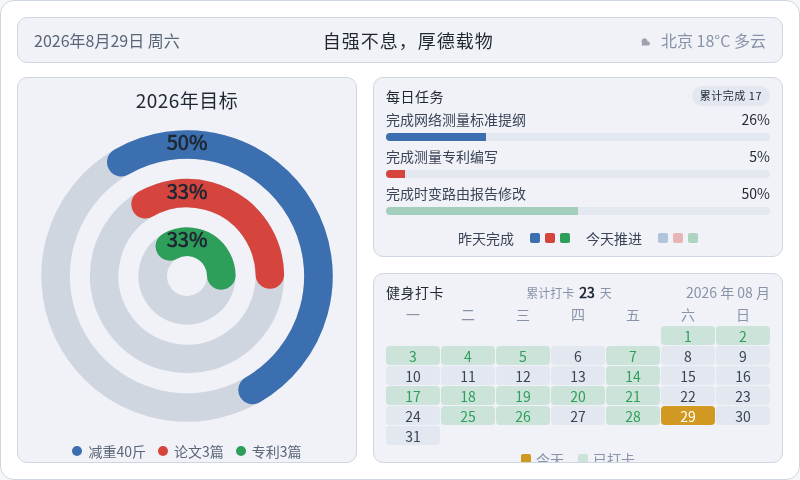
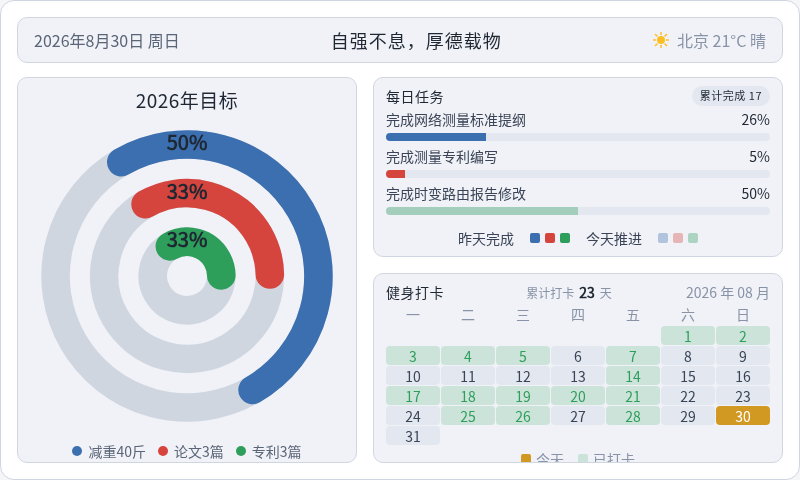
chore: 每日看板刷新 2026-08-30

diff --git a/output/dashboard.html b/output/dashboard.html
@@ -185,11 +185,11 @@
 <body>
   <div class="dash">
     <div class="topbar">
-      <div class="tb-date" id="tbDate">2026年8月29日 周六</div>
+      <div class="tb-date" id="tbDate">2026年8月30日 周日</div>
       <div class="tb-slogan">自强不息，厚德载物</div>
       <div class="tb-weather">
-        <svg width="16" height="16" viewBox="0 0 16 16" aria-hidden="true"><path d="M5 11 a3 3 0 1 1 5.5 -1.5 h0.5 a2 2 0 1 1 0 4 H5 a2.5 2.5 0 0 1 0 -2.5z" fill="#9ca3af"/></svg>
-        <span>北京 18°C 多云</span>
+        <svg width="16" height="16" viewBox="0 0 16 16" aria-hidden="true"><circle cx="8" cy="8" r="4" fill="#fbbf24"/><g stroke="#fbbf24" stroke-width="1.5" stroke-linecap="round"><line x1="8" y1="0.5" x2="8" y2="2.5"/><line x1="8" y1="13.5" x2="8" y2="15.5"/><line x1="0.5" y1="8" x2="2.5" y2="8"/><line x1="13.5" y1="8" x2="15.5" y2="8"/><line x1="2.5" y1="2.5" x2="3.9" y2="3.9"/><line x1="12.1" y1="12.1" x2="13.5" y2="13.5"/><line x1="13.5" y1="2.5" x2="12.1" y2="3.9"/><line x1="3.9" y1="12.1" x2="2.5" y2="13.5"/></g></svg>
+        <span>北京 21°C 晴</span>
       </div>
     </div>
     <div class="content">
@@ -248,7 +248,7 @@
           <span class="cal-date">2026 年 08 月</span>
         </div>
         <div class="cal-grid wk"><span>一</span><span>二</span><span>三</span><span>四</span><span>五</span><span>六</span><span>日</span></div>
-        <div class="cal-grid"><span class="cell empty"></span><span class="cell empty"></span><span class="cell empty"></span><span class="cell empty"></span><span class="cell empty"></span><span class="cell done" style="background:rgba(46,158,91,0.18);color:#2e9e5b">1</span><span class="cell done" style="background:rgba(46,158,91,0.18);color:#2e9e5b">2</span><span class="cell done" style="background:rgba(46,158,91,0.18);color:#2e9e5b">3</span><span class="cell done" style="background:rgba(46,158,91,0.18);color:#2e9e5b">4</span><span class="cell done" style="background:rgba(46,158,91,0.18);color:#2e9e5b">5</span><span class="cell" style="background:#e3e8f0;color:#3a4456">6</span><span class="cell done" style="background:rgba(46,158,91,0.18);color:#2e9e5b">7</span><span class="cell" style="background:#e3e8f0;color:#3a4456">8</span><span class="cell" style="background:#e3e8f0;color:#3a4456">9</span><span class="cell" style="background:#e3e8f0;color:#3a4456">10</span><span class="cell" style="background:#e3e8f0;color:#3a4456">11</span><span class="cell" style="background:#e3e8f0;color:#3a4456">12</span><span class="cell" style="background:#e3e8f0;color:#3a4456">13</span><span class="cell done" style="background:rgba(46,158,91,0.18);color:#2e9e5b">14</span><span class="cell" style="background:#e3e8f0;color:#3a4456">15</span><span class="cell" style="background:#e3e8f0;color:#3a4456">16</span><span class="cell done" style="background:rgba(46,158,91,0.18);color:#2e9e5b">17</span><span class="cell done" style="background:rgba(46,158,91,0.18);color:#2e9e5b">18</span><span class="cell done" style="background:rgba(46,158,91,0.18);color:#2e9e5b">19</span><span class="cell done" style="background:rgba(46,158,91,0.18);color:#2e9e5b">20</span><span class="cell done" style="background:rgba(46,158,91,0.18);color:#2e9e5b">21</span><span class="cell" style="background:#e3e8f0;color:#3a4456">22</span><span class="cell" style="background:#e3e8f0;color:#3a4456">23</span><span class="cell" style="background:#e3e8f0;color:#3a4456">24</span><span class="cell done" style="background:rgba(46,158,91,0.18);color:#2e9e5b">25</span><span class="cell done" style="background:rgba(46,158,91,0.18);color:#2e9e5b">26</span><span class="cell" style="background:#e3e8f0;color:#3a4456">27</span><span class="cell done" style="background:rgba(46,158,91,0.18);color:#2e9e5b">28</span><span class="cell today" style="background:#d29922;color:#ffffff">29</span><span class="cell" style="background:#e3e8f0;color:#3a4456">30</span><span class="cell" style="background:#e3e8f0;color:#3a4456">31</span></div>
+        <div class="cal-grid"><span class="cell empty"></span><span class="cell empty"></span><span class="cell empty"></span><span class="cell empty"></span><span class="cell empty"></span><span class="cell done" style="background:rgba(46,158,91,0.18);color:#2e9e5b">1</span><span class="cell done" style="background:rgba(46,158,91,0.18);color:#2e9e5b">2</span><span class="cell done" style="background:rgba(46,158,91,0.18);color:#2e9e5b">3</span><span class="cell done" style="background:rgba(46,158,91,0.18);color:#2e9e5b">4</span><span class="cell done" style="background:rgba(46,158,91,0.18);color:#2e9e5b">5</span><span class="cell" style="background:#e3e8f0;color:#3a4456">6</span><span class="cell done" style="background:rgba(46,158,91,0.18);color:#2e9e5b">7</span><span class="cell" style="background:#e3e8f0;color:#3a4456">8</span><span class="cell" style="background:#e3e8f0;color:#3a4456">9</span><span class="cell" style="background:#e3e8f0;color:#3a4456">10</span><span class="cell" style="background:#e3e8f0;color:#3a4456">11</span><span class="cell" style="background:#e3e8f0;color:#3a4456">12</span><span class="cell" style="background:#e3e8f0;color:#3a4456">13</span><span class="cell done" style="background:rgba(46,158,91,0.18);color:#2e9e5b">14</span><span class="cell" style="background:#e3e8f0;color:#3a4456">15</span><span class="cell" style="background:#e3e8f0;color:#3a4456">16</span><span class="cell done" style="background:rgba(46,158,91,0.18);color:#2e9e5b">17</span><span class="cell done" style="background:rgba(46,158,91,0.18);color:#2e9e5b">18</span><span class="cell done" style="background:rgba(46,158,91,0.18);color:#2e9e5b">19</span><span class="cell done" style="background:rgba(46,158,91,0.18);color:#2e9e5b">20</span><span class="cell done" style="background:rgba(46,158,91,0.18);color:#2e9e5b">21</span><span class="cell" style="background:#e3e8f0;color:#3a4456">22</span><span class="cell" style="background:#e3e8f0;color:#3a4456">23</span><span class="cell" style="background:#e3e8f0;color:#3a4456">24</span><span class="cell done" style="background:rgba(46,158,91,0.18);color:#2e9e5b">25</span><span class="cell done" style="background:rgba(46,158,91,0.18);color:#2e9e5b">26</span><span class="cell" style="background:#e3e8f0;color:#3a4456">27</span><span class="cell done" style="background:rgba(46,158,91,0.18);color:#2e9e5b">28</span><span class="cell" style="background:#e3e8f0;color:#3a4456">29</span><span class="cell today" style="background:#d29922;color:#ffffff">30</span><span class="cell" style="background:#e3e8f0;color:#3a4456">31</span></div>
         <div class="cal-legend">
           <span style="color:#8893a7"><i class="sw" style="background:#d29922"></i>今天</span>
           <span style="color:#8893a7"><i class="sw" style="background:rgba(46,158,91,0.18)"></i>已打卡</span>
